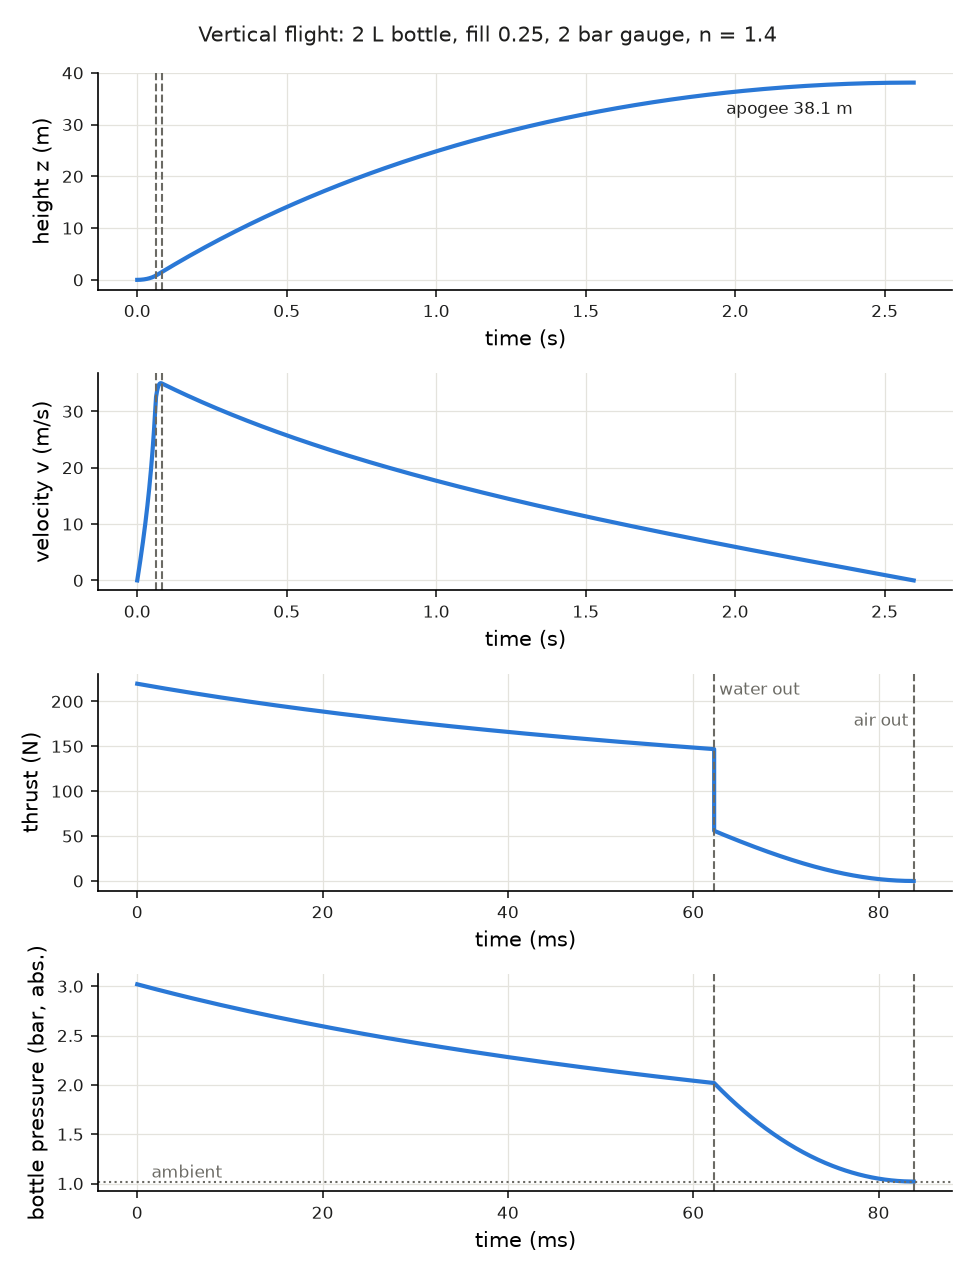
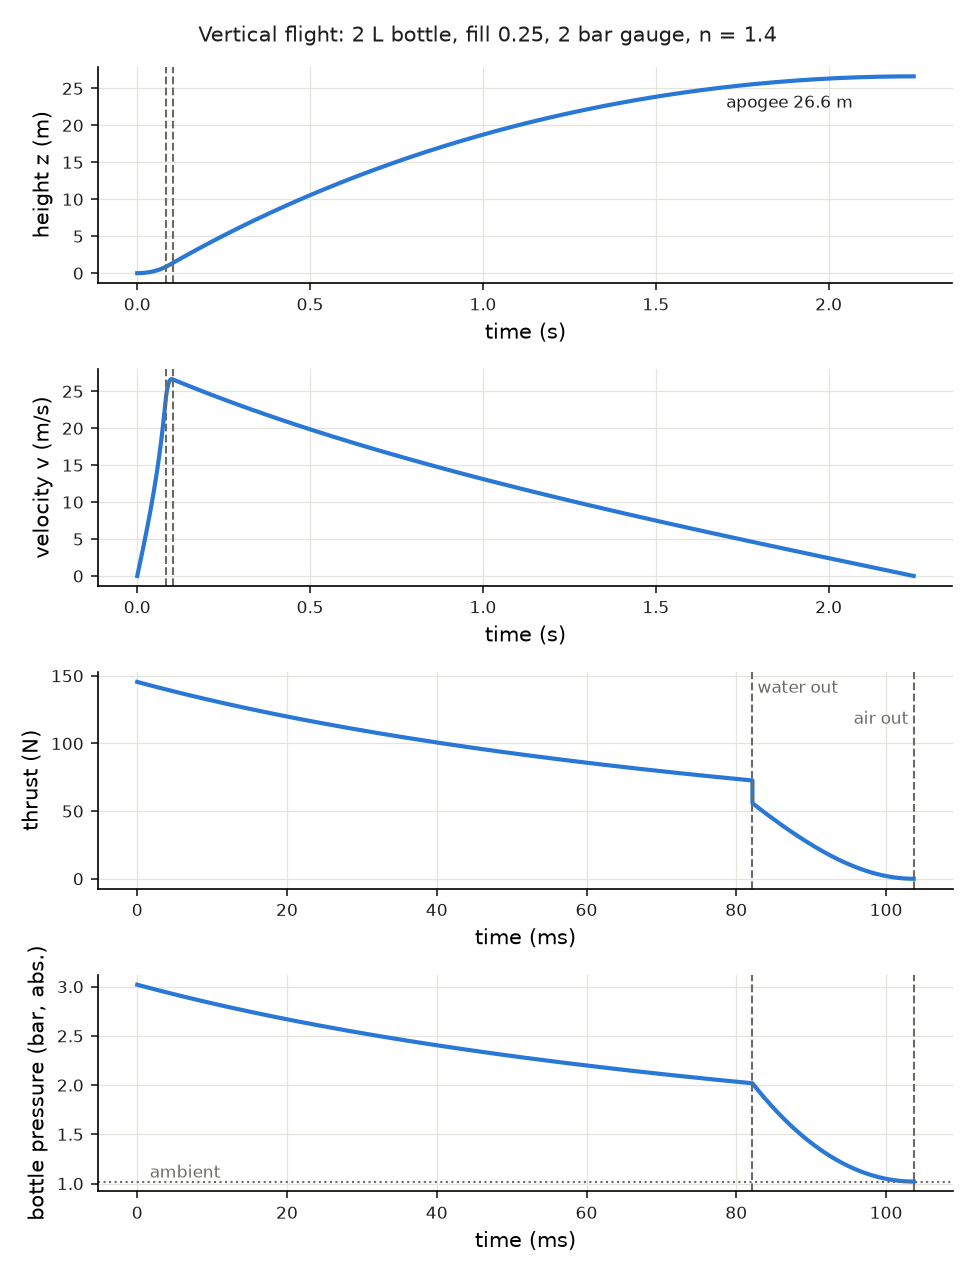
docs: physics.md revised from physics review and source audit; section 6.3 and figure 3

diff --git a/docs/physics.md b/docs/physics.md
@@ -4,8 +4,8 @@ A PET bottle, partly filled with water and pressurised with air, is
 launched vertically, nozzle down. This document derives a model of its
 flight in three phases, states the assumptions, and reports the apogee
 as a function of the water fill. The model is implemented in
-`code/rocket.py`; the figures are produced by `code/fig_trajectory.py`
-and `code/fig_apogee_vs_fill.py`.
+`code/rocket.py`; the figures are produced by `code/fig_trajectory.py`,
+`code/fig_apogee_vs_fill.py` and `code/fig_inertial_head.py`.
 
 Labels used throughout:
 
@@ -19,8 +19,12 @@ Labels used throughout:
 ## 1. Rocket, ambient and notation
 
 The parameters are those of the rocket of Barrio-Perotti et al. (2010),
-section 5, measured by the authors. The drag coefficient was measured on
-the same rocket by free fall (Barrio-Perotti et al. 2009).
+section 5, measured by the authors. The drag coefficient was measured
+by free fall on a 2 L water rocket with $m^* = 133 \pm 1$ g and
+$D = 106.0$ mm (Barrio-Perotti et al. 2009). Mass and diameter equal
+those of the 2010 rocket; neither paper states that it is the same
+rocket (own inference that the value applies). Barrio-Perotti 2010
+used $C_D = 0.36$ in its own model (p. 1141).
 
 | Symbol | Meaning | Value | Source |
 |---|---|---|---|
@@ -59,8 +63,12 @@ $$F_D = \tfrac12 \rho_a C_D A_b\, v|v| \tag{D1}$$
 
 The air expands while it pushes the water out. Heat diffusion in the
 gas during an ejection time $\tau \approx 0.1$ s reaches a depth
-$\delta_h \approx \sqrt{\chi\tau} \approx 0.4$ mm, small compared with
-the bottle radius (Gommes 2010, eq. 1). The expansion is therefore
+$\delta_h \approx \sqrt{\chi\tau}$. Gommes (2010, eq. 1) uses
+$\chi = 0.014$ cm$^2$/s and obtains $\delta_h = 0.4$ mm. Own inference:
+this $\chi$ is low for air, whose thermal diffusivity at 295 K is about
+0.22 cm$^2$/s at 1 bar and 0.07 cm$^2$/s at 3 bar (textbook,
+$\chi \propto 1/p$); these give $\delta_h = 0.8$ to 1.5 mm. Either
+value is small compared with the bottle radius, 53 mm. The expansion is therefore
 modelled without heat exchange with the walls, as a polytropic process:
 
 $$p = p_0\left(\frac{V_0}{V}\right)^{n} \tag{W1}$$
@@ -71,8 +79,9 @@ during the expansion releases heat and lowers the effective exponent.
 Gommes (2010, eq. 6) gives an empirical fit,
 $\beta = 1.15 + 0.25\exp(-36\,P_V/P_i)$. Romanelli et al. (2013,
 Table I) measured 1.17 to 1.22 in a stationary bottle; these values lie
-0.05 to 0.06 below their own theoretical prediction in every row
-(contested). Own inference: with the saturation pressure of water at
+0.05 to 0.06 below their own theoretical prediction in every row.
+The authors call the agreement "very good"; reading the offset as a
+disagreement is an own inference (contested point). Own inference: with the saturation pressure of water at
 22 °C (2.64 kPa, textbook) and $p_0 = 3.02$ bar, the Gommes fit gives
 $\beta = 1.33$. The baseline here is $n = 1.4$; $n = 1.2$ is run as a
 sensitivity case (figure 2).
@@ -83,12 +92,31 @@ Quasi-steady Bernoulli along a streamline from the water surface in the
 bottle (velocity $u_e A_n/A_b$ by continuity) to the nozzle exit
 (velocity $u_e$, pressure $p_a$), relative to the bottle:
 
-$$u_e = \sqrt{\frac{2\,p}{\rho_w\left[1 - (A_n/A_b)^2\right]}} \tag{W2}$$
+$$u_e = \sqrt{\frac{2\,(p - p_a)}{\rho_w\left[1 - (A_n/A_b)^2\right]}} \tag{W2}$$
 
-The area correction
-changes $u_e$ by 0.1 % for this rocket. The same relation, with or
-without the correction, is used by Fischer et al. (2020, eq. 7),
-Urieli (2013, eq. 3) and Ding et al. (2025, eq. 10).
+The driving term is the gauge pressure $p - p_a$. The area correction
+changes $u_e$ by 0.1 % for this rocket. The same relation is used by
+Fischer et al. (2020, eq. 7, correction given unnumbered on p. 5) and
+Urieli (2013, eq. 3, without the correction). Ding et al. (2025,
+eq. 10) use it with the density of a two-phase mixture in place of
+$\rho_w$.
+
+Sensitivity case (P2 of the physics review). In the frame of the
+rocket, accelerating at $a$, the water column of height $h$ above the
+nozzle adds an inertial head $\rho_w (g + a) h$ to the driving
+pressure:
+
+$$u_e = \sqrt{\frac{2\,\left[p - p_a + \rho_w (g + a) h\right]}{\rho_w\left[1 - (A_n/A_b)^2\right]}}, \qquad h = \frac{V_b - V}{A_b} \tag{W2h}$$
+
+The column is taken as a cylinder of section $A_b$; the neck of the
+bottle is ignored (own approximation). Since the thrust depends on $a$
+through (W2h), the momentum balance (W6) is linear in $a$ and is solved
+for $a$:
+
+$$a = \frac{c\,[p - p_a + \rho_w g h] - F_D - m g}{m - c\,\rho_w h}, \qquad c = \frac{2 A_n}{1 - (A_n/A_b)^2} \tag{W6h}$$
+
+With (W2h) the water phase ends when the water is exhausted or when the
+bracket in (W2h) reaches zero. Results in section 6.3.
 
 The air volume grows as the water leaves:
 
@@ -110,7 +138,7 @@ Newton's law for a variable-mass body, with thrust, drag and weight:
 
 $$m\frac{dv}{dt} = F_T - F_D - m g \tag{W6}$$
 
-(established; Fischer 2020, eq. 10; Urieli 2013, eq. 10). Before lift-off
+(established; Fischer 2020, eq. 10; Urieli 2013, page 3, eq. 10). Before lift-off
 the pad holds the rocket: $dv/dt = 0$ while the right side of (W6) is
 negative at $z = 0$.
 
@@ -139,8 +167,11 @@ $$T = \frac{p}{\rho R} \tag{A2}$$
 
 The flow through the convergent nozzle is treated as quasi-steady and
 isentropic from the bottle state $(p, T)$, which is taken as the
-stagnation state (established, textbook compressible flow; the same
-approach as Barrio-Perotti 2010, section 4.2). The flow is choked while
+stagnation state (established, textbook compressible flow).
+Barrio-Perotti 2010 (section 4.2) also model the air phase as
+compressible flow through a convergent nozzle, with unsteady terms
+kept; the choked-flow relations (A3) and (A4) and the pressure term in
+(A7) are textbook, not taken from that paper. The flow is choked while
 
 $$\frac{p_a}{p} \le \left(\frac{2}{\gamma+1}\right)^{\gamma/(\gamma-1)} = 0.528 \tag{A3}$$
 
@@ -177,8 +208,8 @@ solution. The height gained from burnout velocity $v_1$ is
 
 $$h_c = \frac{1}{2\psi}\ln\!\left(1 + \frac{\psi v_1^2}{g}\right), \qquad \psi = \frac{\rho_a C_D A_b}{2 m_1} \tag{B2}$$
 
-(established; Fischer 2020, eq. 35). It is used as a check of the
-numerical integration.
+(established; Fischer 2020, eq. 35, there with the empty mass in
+place of $m_1$). It is used as a check of the numerical integration.
 
 ## 5. Numerical method
 
@@ -186,10 +217,12 @@ Each phase is integrated with `scipy.integrate.solve_ivp` (RK45,
 relative tolerance $10^{-9}$ to $10^{-10}$, maximum step 1 ms in the
 water phase, 0.1 ms in the air phase, 10 ms in the ballistic phase).
 Phase ends are terminal events. The final state of one phase is the
-initial state of the next.
+initial state of the next. The code stops with an error if the water
+phase ends without one of its end events, and returns a flight on the
+pad when $p_0 \le p_a$.
 
 Check: for $f = 0.25$, $p_g = 2$ bar, the integrated coast height and
-(B2) both give 36.55 m.
+(B2) both give 25.22 m.
 
 ## 6. Results
 
@@ -201,14 +234,14 @@ Figure 1: $f = 0.25$ (0.5 L of water), $p_g = 2$ bar, $n = 1.4$.
 
 | Quantity | Value |
 |---|---|
-| peak thrust (at $t = 0$) | 219.7 N |
-| initial acceleration | 34.1 $g$ |
-| end of water phase | 62.3 ms, 32.3 m/s, 0.82 m |
+| peak thrust (at $t = 0$) | 145.5 N |
+| initial acceleration | 22.3 $g$ |
+| end of water phase | 82.2 ms, 23.9 m/s, 0.85 m |
 | pressure at end of water phase | 2.02 bar (absolute) |
-| end of air phase | 83.8 ms, 34.9 m/s, 1.56 m |
-| apogee | 38.1 m at 2.60 s |
+| end of air phase | 103.7 ms, 26.6 m/s, 1.41 m |
+| apogee | 26.6 m at 2.25 s |
 
-At the end of the water phase the thrust drops from 147 N to 56 N
+At the end of the water phase the thrust drops from 73 N to 56 N
 (figure 1, third panel). The thrust changes from a water jet (W5) to a
 choked air jet (A7) at the same bottle pressure.
 
@@ -217,15 +250,16 @@ water volume and pressure, launched from a 45° ramp (own inference; the
 launch conditions differ, so the comparison is of order of magnitude):
 
 - Pressure during the water phase: 3 to 2 bar absolute in both.
-- Velocity at the end of the water phase: 26.7 m/s there, 32.3 m/s
-  here. At the end of the air phase: 30.7 m/s there, 34.9 m/s here.
-- Gain in the air phase: about 15 % there, 8 % here.
-- Initial acceleration: slightly above 70 $g$ there, 34 $g$ here. Their
+- Velocity at the end of the water phase: 26.7 m/s there, 23.9 m/s
+  here. At the end of the air phase: 30.7 m/s there, 26.6 m/s here.
+- Gain in the air phase: about 15 % there, 11.5 % here.
+- Initial acceleration: slightly above 70 $g$ there, 22 $g$ here. Their
   model keeps the inertia of the water in the bottle (their eqs. 5, 6,
   19, 20); the quasi-steady model (W2) does not. Kagan et al., as
-  reported by Gommes (2010), measured about 100 $g$ on a 2 L bottle.
-  Launch conditions of that measurement are not in the note
-  (`sources/gommes2010more.md`). The difference is discussed in section 7.
+  reported by Gommes (2010, p. 236), measured about 100 $g$ on a 2 L
+  bottle. Gommes gives their launch pressures, 3.4 and 6.8 bar (gauge
+  or absolute not stated), but not which launch gave 100 $g$. The
+  difference is discussed in section 7.
 
 ### 6.2 Apogee versus fill fraction
 
@@ -238,27 +272,25 @@ Optimum fill (own inference, model result):
 
 | $p_g$ (bar) | $n$ | $f_{opt}$ | water (L) | apogee (m) |
 |---|---|---|---|---|
-| 1 | 1.4 | 0.38 | 0.76 | 29.8 |
-| 1 | 1.2 | 0.43 | 0.86 | 31.8 |
-| 2 | 1.4 | 0.39 | 0.78 | 40.7 |
-| 2 | 1.2 | 0.41 | 0.82 | 43.3 |
-| 3 | 1.4 | 0.36 | 0.72 | 50.6 |
-| 3 | 1.2 | 0.38 | 0.76 | 53.8 |
-| 5 | 1.4 | 0.33 | 0.66 | 67.4 |
-| 5 | 1.2 | 0.34 | 0.68 | 71.4 |
+| 1 | 1.4 | 0.22 | 0.44 | 11.3 |
+| 1 | 1.2 | 0.24 | 0.48 | 12.7 |
+| 2 | 1.4 | 0.27 | 0.54 | 26.7 |
+| 2 | 1.2 | 0.29 | 0.58 | 29.3 |
+| 3 | 1.4 | 0.28 | 0.56 | 39.9 |
+| 3 | 1.2 | 0.30 | 0.60 | 43.4 |
+| 5 | 1.4 | 0.28 | 0.56 | 60.6 |
+| 5 | 1.2 | 0.30 | 0.60 | 65.0 |
 
 Observations (own inference):
 
-- The optimum lies between 0.33 and 0.43. Above 2 bar it moves down
-  with pressure.
-- The curves are flat near the optimum. At 2 bar, $f$ from 0.22 to 0.54
+- The optimum lies between 0.22 and 0.30 and moves up with pressure.
+- The curves are flat near the optimum. At 2 bar, $f$ from 0.17 to 0.38
   gives apogees within 10 % of the maximum (own inference, same sweep).
-- A lower exponent raises the apogee by 6 % to 7 % and the optimum by
-  0.01 to 0.05. With $n = 1.2$ the pressure falls more slowly with
-  volume, so the air does more work.
-- Each curve drops steeply at $f^*$ (W7), the onset of overfilling: the
-  pressure reaches $p_a$ before the water is gone. At 1 bar the optimum
-  lies at $f^*$.
+- A lower exponent raises the apogee by 7 % (5 bar) to 12 % (1 bar)
+  and the optimum by 0.02. With $n = 1.2$ the pressure falls more slowly with volume, so
+  the air does more work.
+- The bend in each curve near $f^*$ (W7) marks the onset of
+  overfilling: the pressure reaches $p_a$ before the water is gone.
 - With no water ($f = 0$) the rocket still flies on air alone: 2.8 m at
   2 bar.
 
@@ -267,33 +299,62 @@ Comparison with the sources (trend only):
 - Barrio-Perotti 2010 measured the maximum horizontal range at
   0.5 to 0.6 L of water for 2 bar gauge on a 45° ramp (their figure 10);
   their model gives an optimum of 0.5 to 0.6 L for 1 to 5 bar (figure
-  14). The optimum for apogee here, 0.66 to 0.86 L, is above that range.
-  Range and apogee are different targets, so a different optimum is
-  expected; the comparison is a check of trend, not a validation.
+  14). The optimum for apogee here, 0.44 to 0.60 L, is in the same range.
+  Range and apogee are different targets; the agreement is a check of
+  trend, not a validation.
 - Ding et al. 2025 report a simulated optimum water volume ratio of
-  0.498 for a 2.13 L rocket at 0.75 MPa with a 1 cm nozzle. Their dry
-  mass and drag coefficient are not stated (`sources/ding2025dynamics.md`),
-  so the difference from 0.33 cannot be traced to a parameter. Both are
-  model results.
+  0.498 for a 2.13 L rocket at 0.75 MPa with a 1 cm nozzle. The rocket
+  differs from the one here, their dry mass and drag coefficient are not
+  stated, and gauge or absolute pressure is not stated. No numerical
+  comparison is made. Both are model results.
+
+### 6.3 Inertial head (sensitivity)
+
+Figure 3: apogee vs fill fraction with (W2) (solid) and with the
+inertial head (W2h) (dashed), $n = 1.4$.
+
+![Figure 3](figures/fig_inertial_head.png)
+
+| $p_g$ (bar) | $f_{opt}$, (W2) | apogee (m), (W2) | $f_{opt}$, (W2h) | apogee (m), (W2h) | change |
+|---|---|---|---|---|---|
+| 1 | 0.22 | 11.3 | 0.22 | 11.7 | +3.8 % |
+| 2 | 0.27 | 26.7 | 0.27 | 27.5 | +3.0 % |
+| 3 | 0.28 | 39.9 | 0.29 | 40.9 | +2.4 % |
+| 5 | 0.28 | 60.6 | 0.29 | 61.7 | +1.7 % |
+
+For $f = 0.25$, 2 bar: the head adds 13.8 kPa at launch, 7 % of the
+gauge pressure. Peak thrust 155.5 N instead of 145.5 N; burnout velocity
+27.1 m/s instead of 26.6 m/s; apogee 27.4 m instead of 26.6 m.
+
+Observations (own inference): the head raises the apogee by less than
+4 % and moves the optimum by at most 0.01. Its relative effect falls
+with pressure, since the head does not scale with $p - p_a$. The
+conclusions of section 6.2 do not change. The unsteady term of limit 1
+is not included in this estimate.
 
 ## 7. Assumptions and limits
 
 1. **Quasi-steady water flow (contested).** (W2) neglects the unsteady
    term and the inertial head of the water column. Gommes (2010,
-   section II B) estimates both to be of the same order as the pressure
-   term at the start of the thrust. Barrio-Perotti (2010) keep the
-   inertia of the confined water and obtain an initial acceleration
-   about twice that of this model (section 6.1). The effect on
-   apogee is not quantified here. Open.
+   section II B, p. 239) finds the unsteady term comparable to the
+   kinetic term, and the apparent-gravity head comparable to the
+   pressure term. The inertial head is estimated here as a sensitivity
+   case (W2h): at launch ($f = 0.25$, 2 bar) about 14 kPa, 7 % of the
+   driving pressure; it raises the apogee by 1.7 % to 3.8 % (section
+   6.3). The unsteady term is not modelled. Barrio-Perotti (2010) keep
+   the inertia of the confined water and obtain an initial acceleration
+   about three times that of this model (section 6.1). Its effect on
+   apogee is Open.
 2. **Polytropic exponent.** $n$ is a parameter, not derived. The
    measured values come from a stationary bottle with an ejection time
    of 0.64 to 0.88 s (Romanelli 2013), not from a flying rocket.
 3. **No heat exchange, air at ambient temperature at launch.** Heating
    by the pump is ignored.
-4. **Nozzle.** Discharge coefficient 1, no losses, no launch tube.
+4. **Nozzle.** Discharge coefficient 1 (assumption, no source), no
+   losses, no launch tube.
 5. **Transition from water to air.** The switch is instantaneous. A
    two-phase mixture leaves the nozzle at the transition in a real
-   launch; it is not modelled.
+   launch (own inference); it is not modelled.
 6. **Air-phase nozzle flow** uses the isentropic relations with
    $\gamma = 1.4$ while the bottle gas follows exponent $n$. For
    $n = 1.4$ the two are consistent; for $n = 1.2$ they are not.
@@ -302,13 +363,16 @@ Comparison with the sources (trend only):
 8. **One-dimensional vertical flight.** No wind, no rotation, no
    tilt. Buoyancy of the rocket is neglected.
 9. **Constant drag coefficient.** $C_D = 0.345$ was measured for
-   $10^3 < Re < 2\times10^5$ on the empty rocket falling nose down
-   (Barrio-Perotti 2009). At 34.9 m/s, $Re \approx 2.5\times10^5$ (own
-   inference, $\nu = 1.5\times10^{-5}$ m$^2$ s$^{-1}$): above that
-   range.
+   $10^3 < Re < 2\times10^5$ on the empty rocket (Barrio-Perotti
+   2009). The fall orientation is not stated; the sketch (their fig. 2)
+   and the height measured from the base of the bottle suggest nose down
+   (own inference). At 26.6 m/s, $Re \approx 1.9\times10^5$ (own
+   inference, $\nu = 1.5\times10^{-5}$ m$^2$ s$^{-1}$): at the upper
+   end of that range.
 10. **Not validated.** The model is not compared with measured apogees
-    or measured thrust curves. No source read in full gives thrust
-    versus time for a flying rocket.
+    or measured thrust curves. Thorncroft et al. (2009) and Watanabe
+    et al. (2003) report thrust-stand measurements; their full texts
+    were not read.
 
 ## References
 
@@ -337,6 +401,19 @@ Comparison with the sources (trend only):
 - Romanelli A, Bove I, González Madina F 2013. Air expansion in a water
   rocket. Am. J. Phys. 81, 762-766. https://doi.org/10.1119/1.4811116
   (`sources/romanelli2013air.md`; read in the arXiv v1 version)
-- Urieli I 2013. Water Rocket Analysis, lecture notes.
-  https://people.ohio.edu/urieli/thermo/property_tables/gas/adiabatic/rocket/analysis2.html
+- Kagan D, Buchholtz L, Klein L 1995. Soda-bottle water rockets. Phys.
+  Teach. 33, 150-157. https://doi.org/10.1119/1.2344175
+  (`sources/kagan1995soda.md`; cited as reported in Gommes 2010, full
+  text not read)
+- Thorncroft G E, Ridgely J R, Pascual C C 2009. Hydrodynamics and
+  thrust characteristics of a water-propelled rocket. Int. J. Mech. Eng.
+  Educ. 37, 241-261. https://doi.org/10.7227/ijmee.37.3.9
+  (`sources/thorncroft2009hydrodynamics.md`; abstract only)
+- Urieli I 2013. Water Rocket Analysis, lecture notes, pages 2 and 3.
+  https://people.ohio.edu/urieli/thermo/property_tables/gas/adiabatic/rocket/analysis2.html ;
+  https://people.ohio.edu/urieli/thermo/property_tables/gas/adiabatic/rocket/analysis3.html
   (`sources/urieli2013water.md`)
+- Watanabe R, Tomita N, Takemae T 2003. Thrust characteristics of water
+  rocket and their improvement. J. Jpn. Soc. Aeronaut. Space Sci. 51,
+  314-320 (in Japanese). https://doi.org/10.2322/jjsass.51.314
+  (`sources/watanabe2003thrust.md`; English abstract only)
